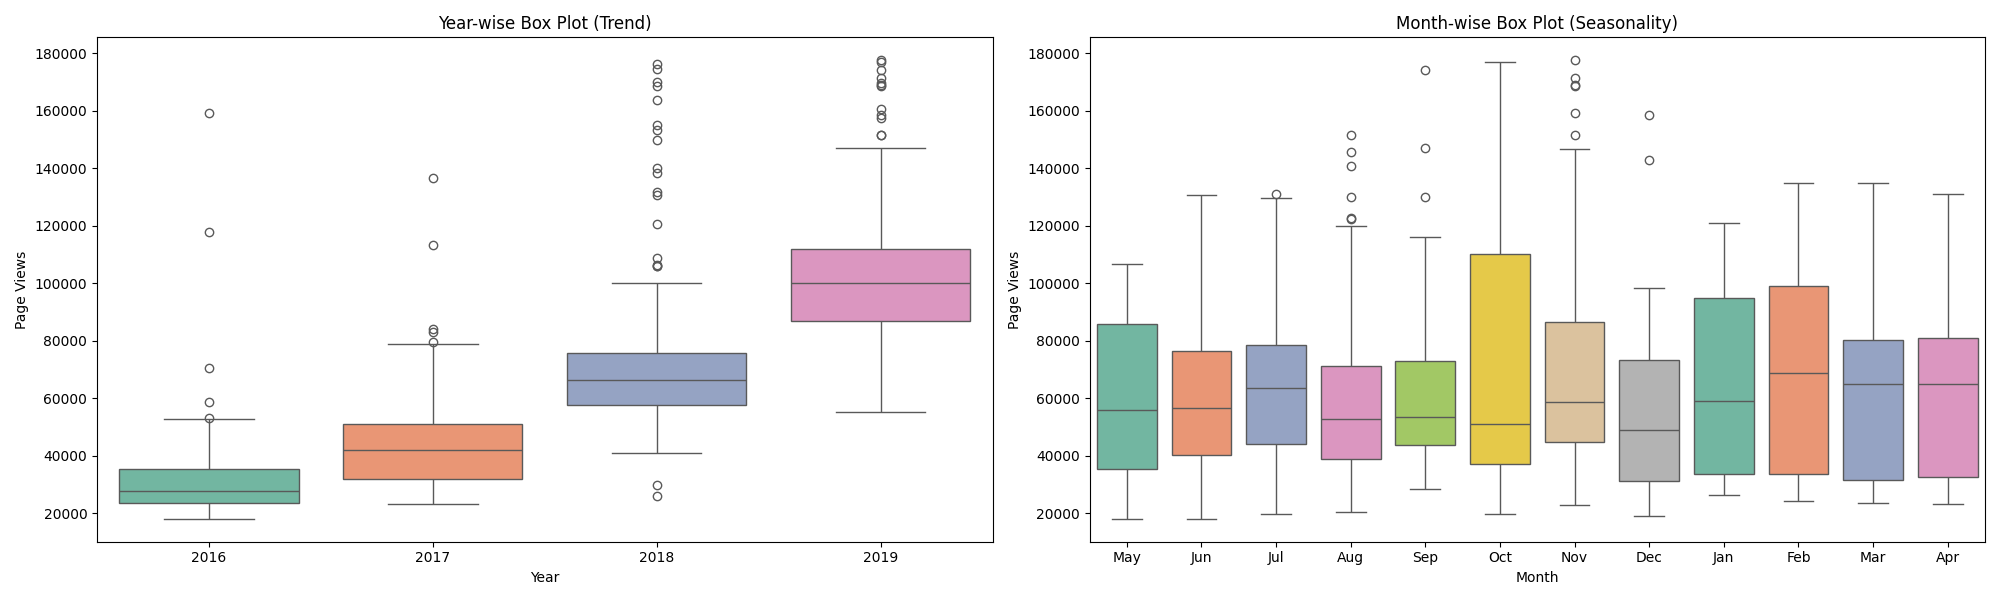
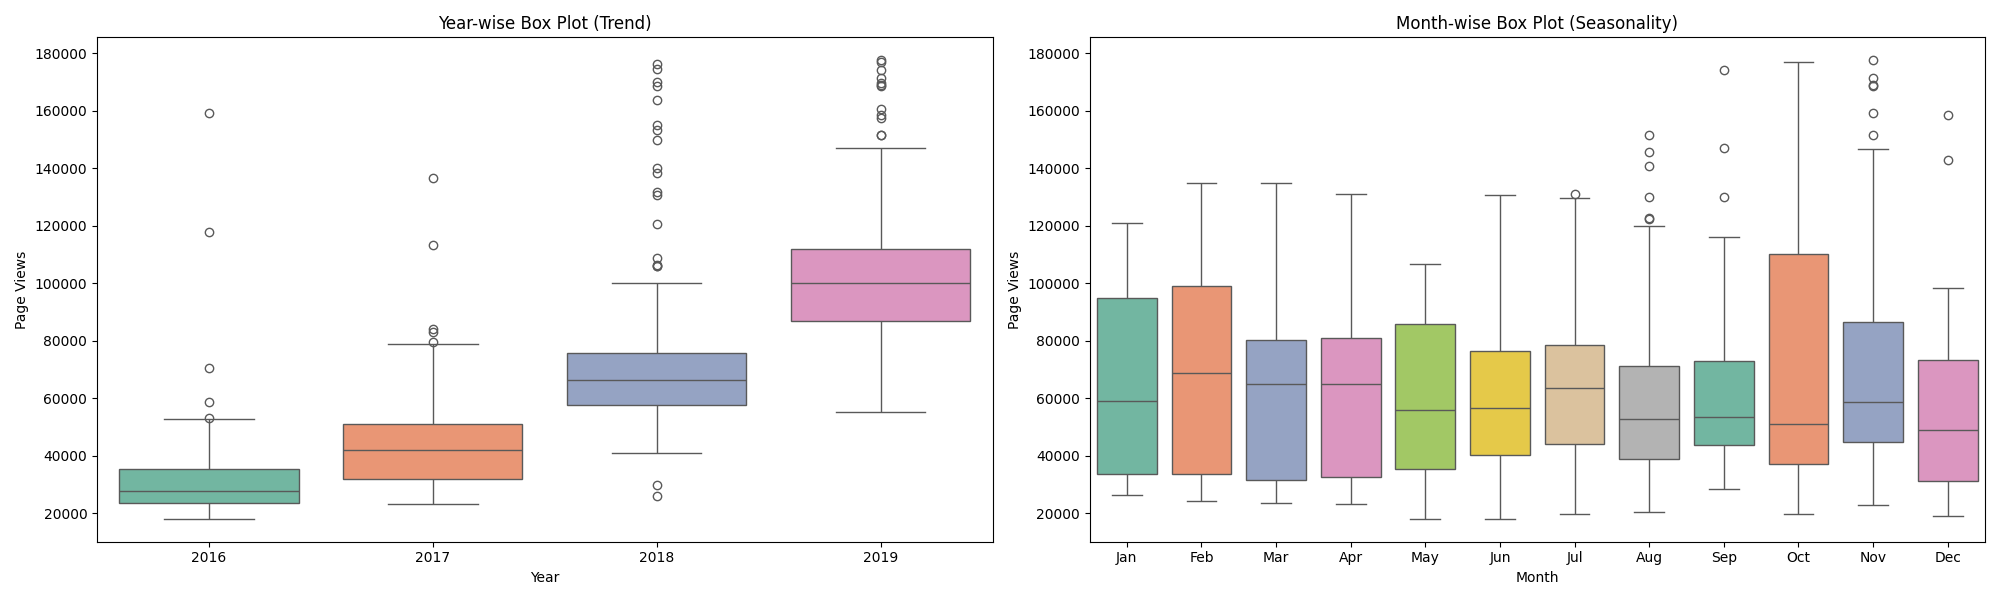
Add files via upload

diff --git a/time_series_visualizer.py b/time_series_visualizer.py
@@ -6,7 +6,7 @@ register_matplotlib_converters()
 
 
 # Import data (Make sure to parse dates. Consider setting index column to 'date'.)
-df = pd.read_csv("fcc-forum-pageviews.csv")
+df = pd.read_csv("fcc-forum-pageviews.csv" , parse_dates= ['date'], index_col= 'date')
 
 # Clean data
 df = df[
@@ -18,16 +18,11 @@ df = df[
 def draw_line_plot():
     # Draw line plot
 
-    df["date"] = pd.to_datetime(df["date"])
-    #df.index = pd.to_datetime(df.index)
-
-    df.set_index('date', inplace=True)
-
     fig = plt.figure(figsize=(12,6))
     plt.plot(df["value"], color="red",linewidth = 1)
     plt.title("Daily freeCodeCamp Forum Page Views 5/2016-12/2019")
-    plt.ylabel("page views")
-    plt.xlabel("date")
+    plt.ylabel("Page Views")
+    plt.xlabel("Date")
     
 
     # Save image and return fig (don't change this part)
@@ -35,6 +30,7 @@ def draw_line_plot():
     return fig
 
 def draw_bar_plot():
+
     df["year"] = df.index.year
     df["month"] = df.index.month_name()
 
@@ -46,8 +42,8 @@ def draw_bar_plot():
     ],
     ordered=True
 )
-    agrupados = df.groupby(["year","month"], observed= False).mean()
-    agrupados = agrupados.reset_index()  
+    agrupados = df.groupby(["year","month"], observed= False).mean().reset_index()
+    
    
 
     # Copy and modify data for monthly bar plot
@@ -73,17 +69,21 @@ def draw_box_plot():
     df_box.reset_index(inplace=True)
     df_box['year'] = [d.year for d in df_box.date]
     df_box['month'] = [d.strftime('%b') for d in df_box.date]
+    df_box['month'] = pd.Categorical(df_box['month'], 
+                                 categories=['Jan', 'Feb', 'Mar', 'Apr', 'May', 'Jun',
+                                             'Jul', 'Aug', 'Sep', 'Oct', 'Nov', 'Dec'], 
+                                 ordered=True)
 
     # Draw box plots (using Seaborn)
 
     fig , axes = plt.subplots(nrows=1, ncols=2 ,figsize = (20,6))
 
-    axes[0] = sns.boxplot(x = 'year' , y = 'value', data= df_box , ax=axes[0] , palette= 'Set2')
+    axes[0] = sns.boxplot(x = 'year' , y = 'value', data= df_box , ax=axes[0] , palette= 'Set2' ,   legend = False, orientation="vertical")
     axes[0].set_title('Year-wise Box Plot (Trend)')
     axes[0].set_xlabel('Year')
     axes[0].set_ylabel('Page Views')
 
-    axes[1] = sns.boxplot(x = 'month' , y = 'value', data= df_box , ax=axes[1], palette= 'Set2',)
+    axes[1] = sns.boxplot(x = 'month' , y = 'value', data= df_box , ax=axes[1], palette= 'Set2', legend = False, orientation="vertical")
     axes[1].set_title('Month-wise Box Plot (Seasonality)')
     axes[1].set_xlabel('Month')
     axes[1].set_ylabel('Page Views')

diff --git a/test_module.py b/test_module.py
@@ -4,7 +4,7 @@ import matplotlib as mpl
 
 class DataCleaningTestCase(unittest.TestCase):
     def test_data_cleaning(self):
-        actual = int(time_series_visualizer.df.count(numeric_only=True))
+        actual = int(time_series_visualizer.df.count()[0])
         expected = 1238
         self.assertEqual(actual, expected, "Expected DataFrame count after cleaning to be 1238.")
 
